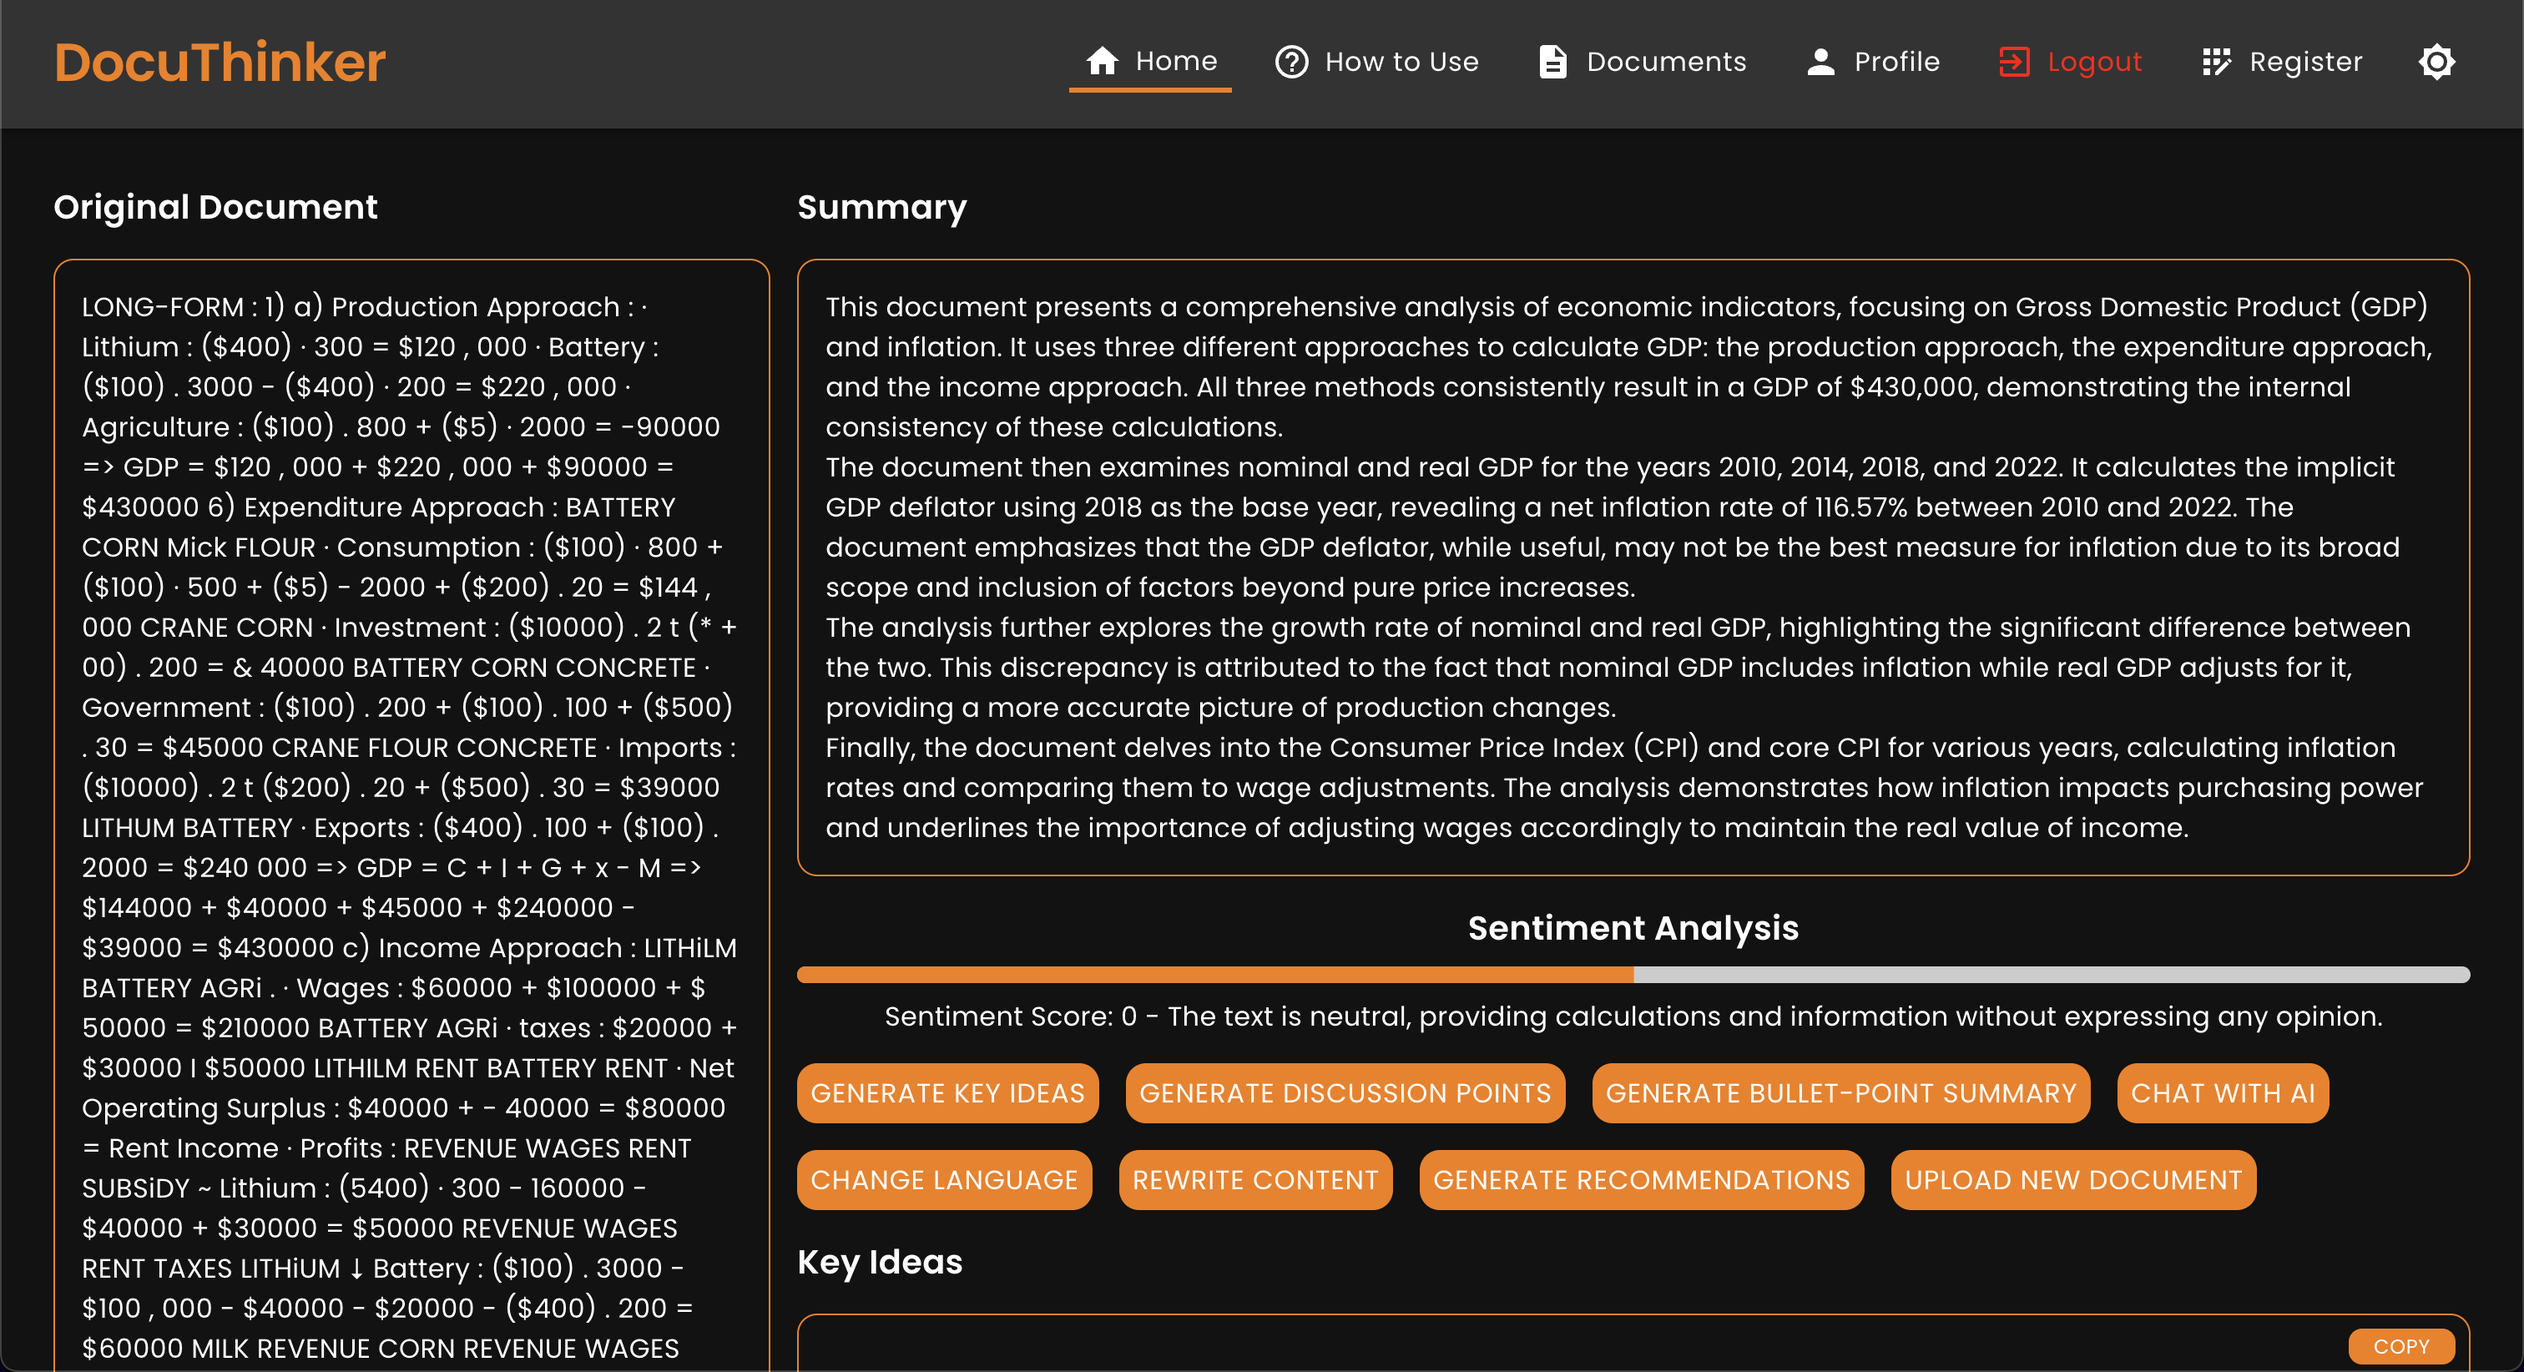
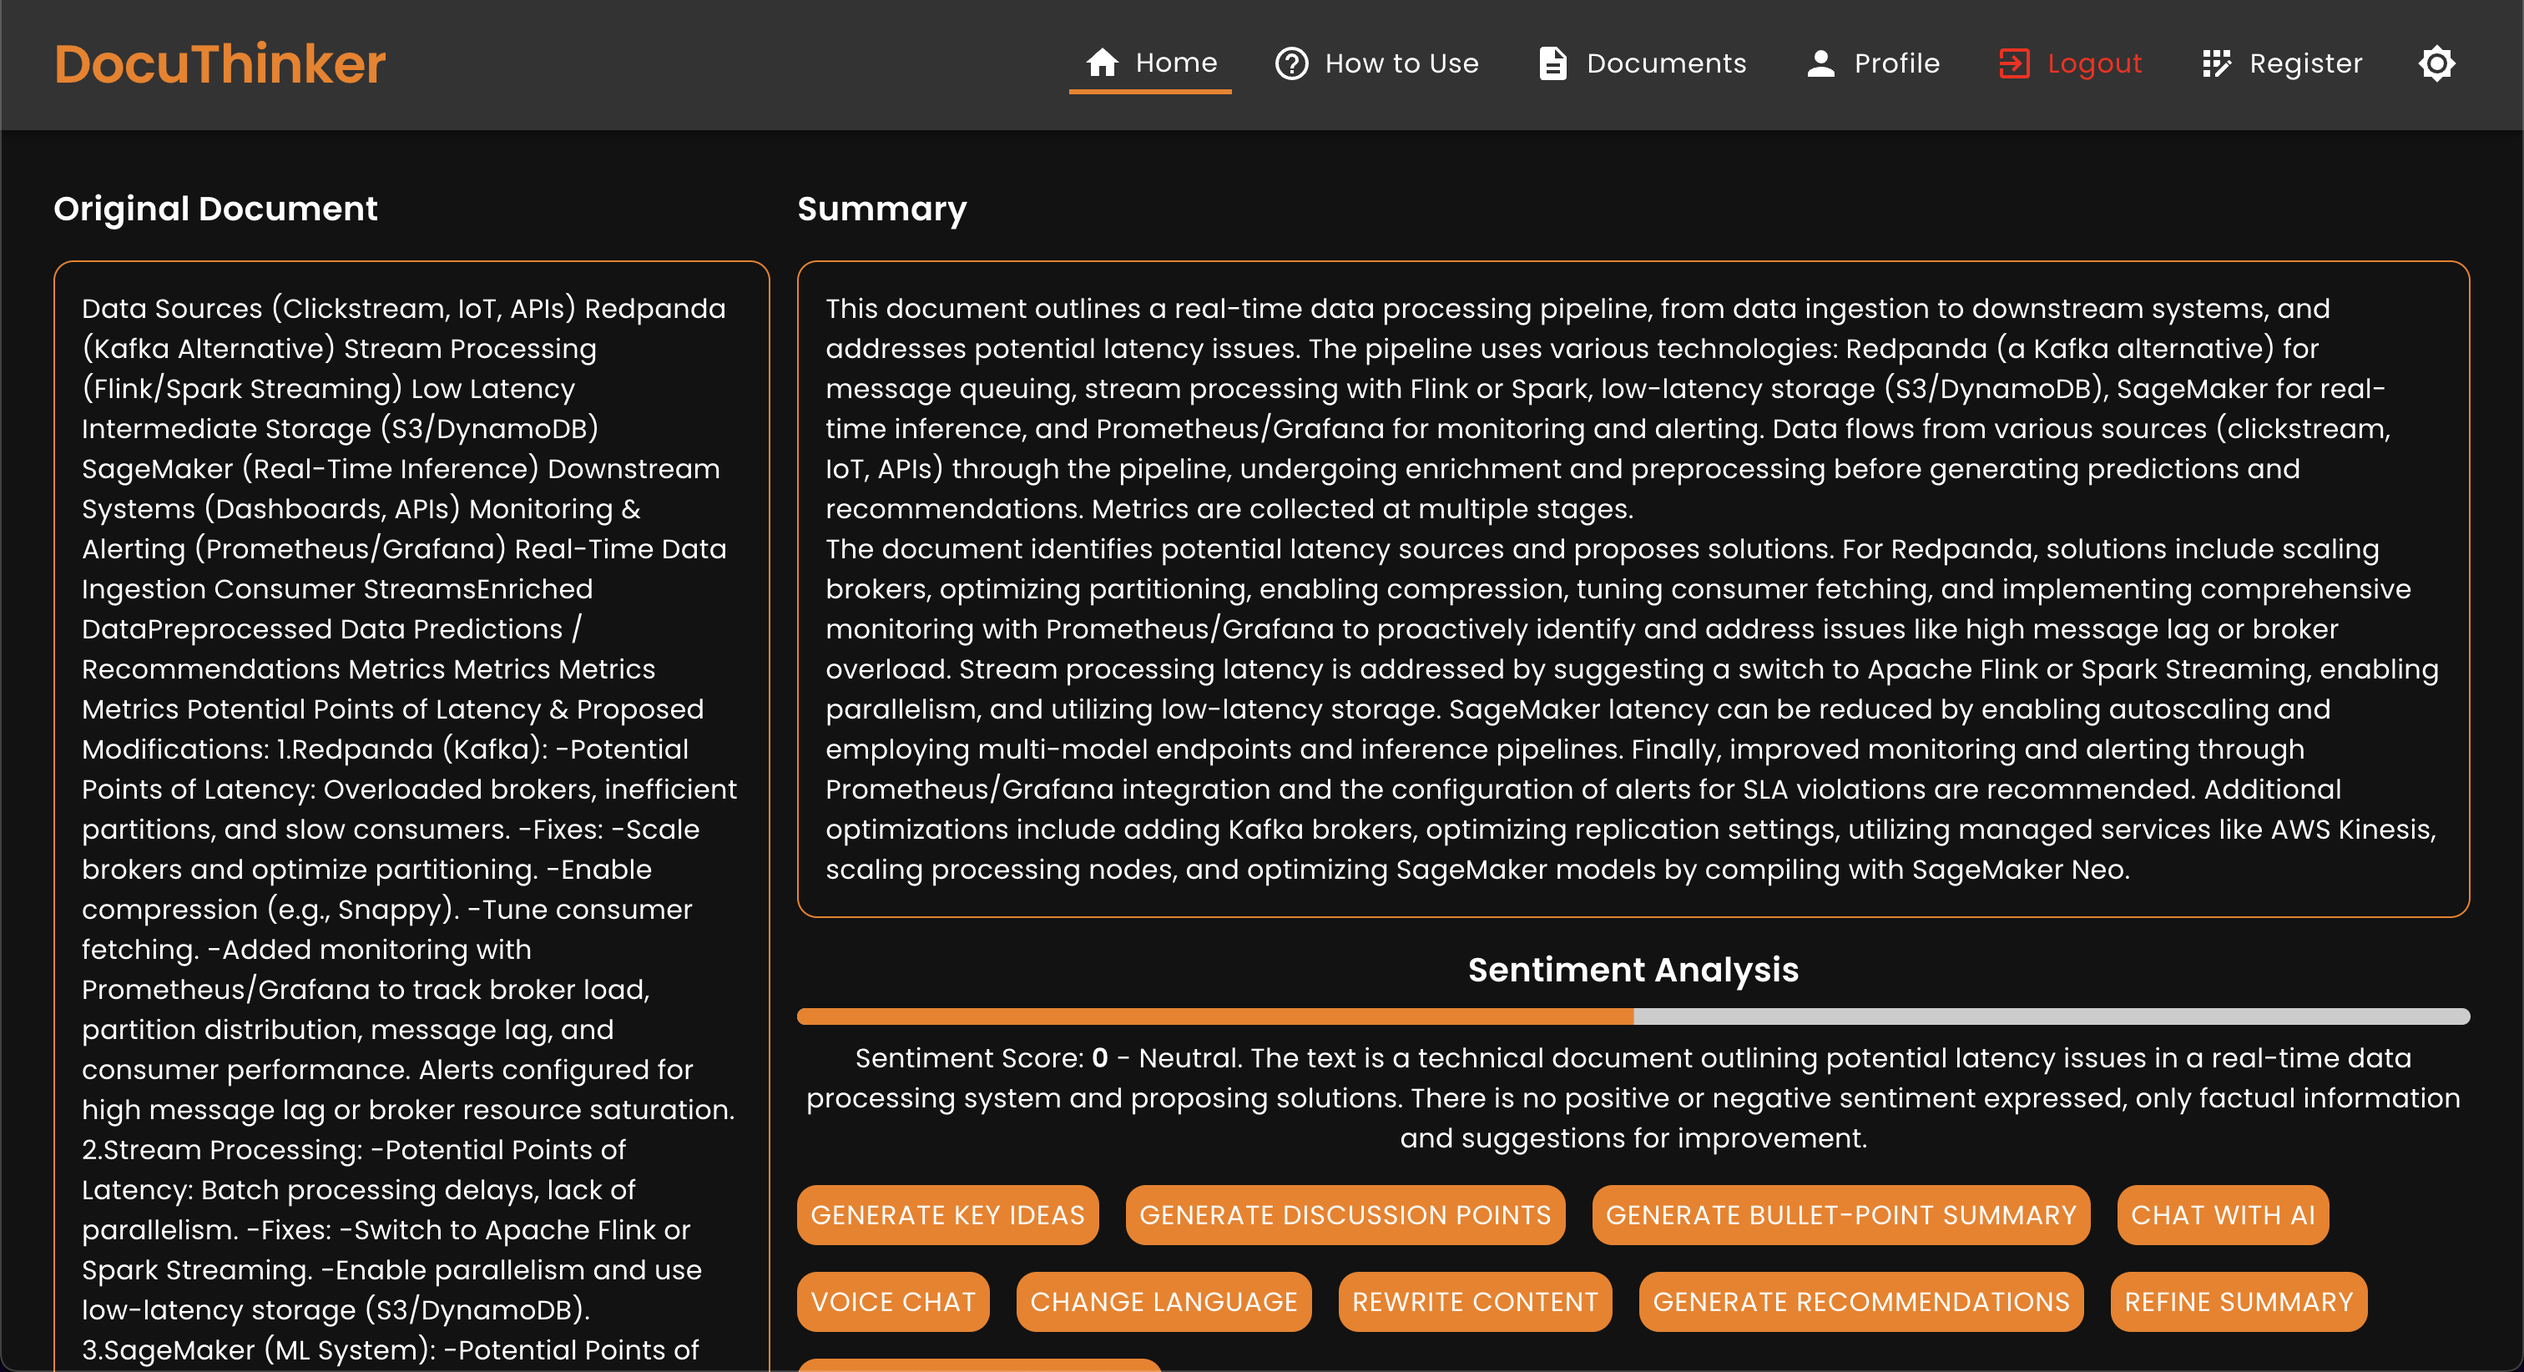
Final: Finished React FE & React-Native

diff --git a/frontend/src/pages/Home.js b/frontend/src/pages/Home.js
@@ -35,6 +35,11 @@ const Home = ({ theme }) => {
   const [discussionPoints, setDiscussionPoints] = useState("");
   const [loadingKeyIdeas, setLoadingKeyIdeas] = useState(false);
   const [loadingDiscussionPoints, setLoadingDiscussionPoints] = useState(false);
+  const [showRefineModal, setShowRefineModal] = useState(false);
+  const [refinementInstructions, setRefinementInstructions] = useState("");
+  const [refinedSummary, setRefinedSummary] = useState("");
+  const refinedRef = useRef(null);
+  const [loadingRefinement, setLoadingRefinement] = useState(false);
   // eslint-disable-next-line no-unused-vars
   const [documentFile, setDocumentFile] = useState(null);
   const [sentiment, setSentiment] = useState({ score: 0, description: "" });
@@ -96,6 +101,8 @@ const Home = ({ theme }) => {
     "Ukrainian",
     "Urdu",
     "Vietnamese",
+    "Welsh",
+    "Zulu",
   ];
   const [snackbarOpen, setSnackbarOpen] = useState(false);
   const [loadingLanguage, setLoadingLanguage] = useState(false);
@@ -160,6 +167,26 @@ const Home = ({ theme }) => {
         setRecording(false);
       })
       .catch(console.error);
+  };
+
+  const handleRefineSummary = async () => {
+    setLoadingRefinement(true);
+    try {
+      const response = await axios.post(
+        "https://docuthinker-ai-app.onrender.com/refine-summary",
+        {
+          summary, // Use the existing summary from state
+          refinementInstructions,
+        },
+      );
+      setRefinedSummary(response.data.refinedSummary); // Store the refined summary
+      setShowRefineModal(false); // Close the modal
+      refinedRef.current?.scrollIntoView({ behavior: "smooth" });
+    } catch (error) {
+      console.error("Failed to refine summary:", error);
+    } finally {
+      setLoadingRefinement(false);
+    }
   };
 
   const handleSendAudio = async () => {
@@ -730,6 +757,17 @@ const Home = ({ theme }) => {
                 ) : (
                   "Generate Recommendations"
                 )}
+              </Button>
+              <Button
+                onClick={() => setShowRefineModal(true)}
+                sx={{
+                  bgcolor: "#f57c00",
+                  color: "white",
+                  font: "inherit",
+                  borderRadius: "12px",
+                }}
+              >
+                Refine Summary
               </Button>
               <Button
                 onClick={handleUploadNewDocument}
@@ -1316,7 +1354,8 @@ const Home = ({ theme }) => {
                   boxShadow: "0 0 10px rgba(0, 0, 0, 0.4)",
                   zIndex: 1000,
                   maxHeight: "80vh",
-                  maxwidth: "90vw",
+                  width: "80vw", // Default width for mobile
+                  maxWidth: { xs: "80vw", sm: "600px" }, // Responsive max-width
                   overflowY: "auto",
                 }}
               >
@@ -1327,6 +1366,7 @@ const Home = ({ theme }) => {
                     font: "inherit",
                     textAlign: "center",
                     fontSize: "22px",
+                    fontWeight: "bold",
                     color: theme === "dark" ? "white" : "black",
                   }}
                 >
@@ -1617,6 +1657,46 @@ const Home = ({ theme }) => {
               </Box>
             )}
 
+            {refinedSummary && (
+              <Box sx={{ marginTop: 2 }} ref={refinedRef}>
+                <Typography
+                  variant="h6"
+                  sx={{
+                    font: "inherit",
+                    fontWeight: "bold",
+                    fontSize: "20px",
+                    mb: 2,
+                    color: theme === "dark" ? "white" : "black",
+                  }}
+                >
+                  Refined Summary
+                </Typography>
+                <Box
+                  sx={{
+                    border: "1px solid #f57c00",
+                    padding: 2,
+                    borderRadius: "12px",
+                  }}
+                >
+                  <ReactMarkdown
+                    components={{
+                      p: ({ node, ...props }) => (
+                        <Typography
+                          sx={{
+                            font: "inherit",
+                            color: theme === "dark" ? "white" : "black",
+                          }}
+                          {...props}
+                        />
+                      ),
+                    }}
+                  >
+                    {refinedSummary}
+                  </ReactMarkdown>
+                </Box>
+              </Box>
+            )}
+
             {recommendations && (
               <Box ref={recommendationsRef} sx={{ marginTop: 2 }}>
                 <Typography
@@ -1828,6 +1908,107 @@ const Home = ({ theme }) => {
           </Box>
         </Box>
       )}
+
+      <Modal open={showRefineModal} onClose={() => setShowRefineModal(false)}>
+        <Fade in={showRefineModal}>
+          <Box
+            sx={{
+              bgcolor: theme === "dark" ? "#222" : "white",
+              color: theme === "dark" ? "white" : "black",
+              borderRadius: "12px",
+              width: "400px",
+              maxWidth: "90%",
+              p: 3,
+              position: "absolute",
+              top: "50%",
+              left: "50%",
+              transform: "translate(-50%, -50%)",
+              boxShadow: "0px 4px 8px rgba(0, 0, 0, 0.4)",
+              display: "flex",
+              flexDirection: "column",
+              gap: 2,
+            }}
+          >
+            {/* Close Button */}
+            <IconButton
+              sx={{
+                position: "absolute",
+                top: 8,
+                right: 8,
+                color: theme === "dark" ? "white" : "black",
+                "&:hover": { color: "#f57c00" },
+              }}
+              onClick={() => setShowRefineModal(false)}
+            >
+              <CloseIcon />
+            </IconButton>
+
+            <Typography
+              variant="h6"
+              sx={{
+                font: "inherit",
+                fontSize: "22px",
+                fontWeight: "bold",
+                color: theme === "dark" ? "white" : "black",
+              }}
+            >
+              Refine Summary
+            </Typography>
+
+            <Typography
+              variant="body1"
+              sx={{
+                font: "inherit",
+                textAlign: "center",
+                fontSize: "14px",
+                color: theme === "dark" ? "white" : "black",
+              }}
+            >
+              Specify how you'd like the summary refined.
+            </Typography>
+
+            <TextField
+              label="Refinement Instructions"
+              value={refinementInstructions}
+              onChange={(e) => setRefinementInstructions(e.target.value)}
+              onKeyPress={(e) => e.key === "Enter" && handleRefineSummary()}
+              fullWidth
+              rows={2}
+              sx={{ mb: 2 }}
+              inputProps={{
+                style: {
+                  fontFamily: "Poppins, sans-serif",
+                  color: theme === "dark" ? "white" : "black",
+                },
+              }}
+              InputLabelProps={{
+                style: {
+                  fontFamily: "Poppins, sans-serif",
+                  color: theme === "dark" ? "white" : "#000",
+                },
+              }}
+            />
+
+            <Button
+              variant="contained"
+              onClick={handleRefineSummary}
+              disabled={loadingRefinement || !refinementInstructions.trim()}
+              sx={{
+                width: "100%",
+                bgcolor: "#f57c00",
+                "&:hover": { bgcolor: "#ef6c00" },
+                font: "inherit",
+              }}
+            >
+              {loadingRefinement ? (
+                <CircularProgress size={24} sx={{ color: "white" }} />
+              ) : (
+                "Refine Summary"
+              )}
+            </Button>
+          </Box>
+        </Fade>
+      </Modal>
 
       <Dialog
         open={openConfirmDialog}

diff --git a/backend/controllers/controllers.js b/backend/controllers/controllers.js
@@ -14,6 +14,7 @@ const {
   generateSummaryInLanguage,
   rewriteContent,
   processAudio,
+  refineSummary,
 } = require("../services/services");
 const { sendErrorResponse, sendSuccessResponse } = require("../views/views");
 const { IncomingForm } = require("formidable");
@@ -1683,6 +1684,73 @@ exports.actionableRecommendations = async (req, res) => {
       await generateActionableRecommendations(documentText);
 
     res.status(200).send({ recommendations });
+  } catch (error) {
+    res.status(500).send({ error: error.message });
+  }
+};
+
+/**
+ * @swagger
+ * /refine-summary:
+ *   post:
+ *     summary: Refine a summary based on user instructions
+ *     description: Takes an initial summary and refinement instructions from the user, and returns a refined summary based on those instructions.
+ *     tags:
+ *       - Document Refinement
+ *     requestBody:
+ *       required: true
+ *       content:
+ *         application/json:
+ *           schema:
+ *             type: object
+ *             required:
+ *               - summary
+ *               - refinementInstructions
+ *             properties:
+ *               summary:
+ *                 type: string
+ *                 description: The initial summary that needs refinement.
+ *               refinementInstructions:
+ *                 type: string
+ *                 description: Instructions on how to refine the summary (e.g., "Make it more concise and formal").
+ *     responses:
+ *       200:
+ *         description: Summary refined successfully
+ *         content:
+ *           application/json:
+ *             schema:
+ *               type: object
+ *               properties:
+ *                 refinedSummary:
+ *                   type: string
+ *                   description: The refined summary based on the user's instructions.
+ *       400:
+ *         description: Invalid summary or refinement instructions
+ *       500:
+ *         description: Failed to refine the summary
+ */
+exports.refineSummary = async (req, res) => {
+  try {
+    const { summary, refinementInstructions } = req.body;
+
+    // Validate inputs
+    if (
+      !summary ||
+      typeof summary !== "string" ||
+      summary.trim() === "" ||
+      !refinementInstructions ||
+      typeof refinementInstructions !== "string" ||
+      refinementInstructions.trim() === ""
+    ) {
+      return res
+        .status(400)
+        .send({ error: "Invalid summary or refinement instructions" });
+    }
+
+    // Call the helper function to refine the summary
+    const refinedSummary = await refineSummary(summary, refinementInstructions);
+
+    res.status(200).send({ refinedSummary });
   } catch (error) {
     res.status(500).send({ error: error.message });
   }

diff --git a/backend/services/services.js b/backend/services/services.js
@@ -397,5 +397,32 @@ exports.generateActionableRecommendations = async (documentText) => {
   return result.response.text();
 };
 
+// Helper: Refine Summary based on User Instructions
+exports.refineSummary = async (summary, refinementInstructions) => {
+  const genAI = new GoogleGenerativeAI(process.env.GOOGLE_AI_API_KEY);
+  const model = genAI.getGenerativeModel({
+    model: "gemini-1.5-flash",
+    systemInstruction: `${process.env.AI_INSTRUCTIONS}. Your task now is to: Refine the provided summary based on the user's instructions.`,
+  });
+
+  // Combine the user input into a single prompt
+  const refinementPrompt = `
+    Summary: ${summary}
+    Refinement Instructions: ${refinementInstructions}
+    Please refine the summary as per the instructions.`;
+
+  const chatSession = model.startChat({
+    history: [{ role: "user", parts: [{ text: refinementPrompt }] }],
+  });
+
+  const result = await chatSession.sendMessage(refinementPrompt);
+
+  if (!result.response || !result.response.text) {
+    throw new Error("Failed to refine the summary using the AI");
+  }
+
+  return result.response.text();
+};
+
 // Export endpoints to be used in server routes
 module.exports = { firestore, isValidText, sessionHistory, ...exports };

diff --git a/frontend/src/pages/HowToUse.js b/frontend/src/pages/HowToUse.js
@@ -86,8 +86,9 @@ const HowToUse = ({ theme }) => {
                 }}
               >
                 Click the upload box on the home page to drag and drop your
-                document or select one from your device. We support both PDF and
-                DOCX formats.
+                document or select one from your device. Alternatively, you can
+                use Google Drive to import your document. We support PDF and
+                DOCX (Word) files.
               </Typography>
             }
           />

diff --git a/backend/index.js b/backend/index.js
@@ -37,6 +37,7 @@ const {
   contentRewriting,
   searchDocuments,
   processAudioFile,
+  refineSummary,
 } = require("./controllers/controllers");
 
 const app = express();
@@ -191,6 +192,7 @@ app.post("/bullet-summary", bulletSummary);
 app.post("/content-rewriting", contentRewriting);
 app.get("/search-documents/:userId", searchDocuments);
 app.post("/process-audio", processAudioFile);
+app.post("/refine-summary", refineSummary);
 
 // Error handling for unsupported routes
 app.use((req, res) => {

diff --git a/frontend/src/components/ChatModal.js b/frontend/src/components/ChatModal.js
@@ -123,6 +123,7 @@ const ChatModal = ({ theme }) => {
               font: "inherit",
               fontSize: "20px",
               textAlign: "center",
+              fontWeight: "bold",
               color: theme === "dark" ? "white" : "black",
             }}
           >
